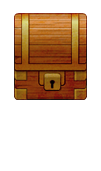
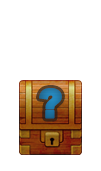
Debut class Bonus

diff --git a/Bomberman 2/src/Bonus.java b/Bomberman 2/src/Bonus.java
@@ -1,0 +1,61 @@
+import java.lang.Math; 
+
+public class Bonus {
+
+	// Nombre entier aleatoire entre 0 et 8 deffinnissant le bonus 
+	int Choix_bonus = (int) (Math.random() * 9 );
+	// Un bonus a une probabilité de 1 chance sur 5 d'apparaitre 
+	int Apparition_bonus = (int) (Math.random() * 6 );
+	
+	//Constructeur
+	public Bonus() {
+
+	}
+
+	//Getter and setters
+	public int getChoix_bonus() {
+		return Choix_bonus;
+	}
+
+
+
+	public void setChoix_bonus(int choix_bonus) {
+		Choix_bonus = choix_bonus;
+	}
+
+
+
+	public int getApparition_bonus() {
+		return Apparition_bonus;
+	}
+
+
+
+	public void setApparition_bonus(int apparition_bonus) {
+		Apparition_bonus = apparition_bonus;
+	}
+
+
+	//Fonction
+	
+	public boolean Bonus_Pop(int Apparition_bonus){
+		
+		if(Apparition_bonus == 1){
+			return true;
+		}
+		
+		else{
+			return false;
+		}
+	}
+	
+	public void Place_bonus(int x,int y, Plateau map){
+		
+		// Si le bonus apparait
+		if(Bonus_Pop(Apparition_bonus) == true){
+			
+			//On change la valeur du plateau
+			map.getMap()[x][y] = 6;
+		}
+	}
+}

diff --git a/Bomberman 2/src/Jeu.java b/Bomberman 2/src/Jeu.java
@@ -24,6 +24,7 @@ public class Jeu {
 		 * - 3 : Bombes posée
 		 * - 4 : Mur Indestructible
 		 * - 5 : Flamme ( temporaire )
+		 * - 6 : Bonus
 		 */
 		
 		int map [][] =
@@ -49,6 +50,12 @@ public class Jeu {
 		
 		Long Heure_debut = System.currentTimeMillis();
 		Long Time_minute = 0l;
+		
+		// --------- INITIALISATION DES POLICES D'ECRITURE ---------
+		
+		Font font = new Font("Arial", Font.BOLD, 30);
+		StdDraw.setFont(font);
+		StdDraw.setPenColor(StdDraw.WHITE);
 
 		// --------- CRÉATION DES OBJETS NÉCESSAIRES --------- 
 		
@@ -148,16 +155,6 @@ public class Jeu {
 			// A faire au propre plus tard //
 			Joueur1.CompteARebourd(Plateau_1, Joueur1, Joueur2); //renommer plus tard //
 			Joueur1.EnleverFlamme(Plateau_1);
-			
-			/*if(Joueur1.getVie() < 0)
-			{
-				StdDraw.picture(625, 345, "Player 2 WIN.png");
-			}
-			if(Joueur2.getVie() < 0)
-			{
-				StdDraw.picture(625, 345, "Player 1 WIN.png");
-			}
-			*/
 			
 			StdDraw.show();
 			StdDraw.pause(50);

diff --git a/Bomberman 2/src/Plateau.java b/Bomberman 2/src/Plateau.java
@@ -1,4 +1,3 @@
-import java.awt.Font;
 import java.awt.event.KeyEvent;
 
 import edu.princeton.cs.introcs.StdDraw;
@@ -24,11 +23,6 @@ public class Plateau {
 	/// Fonctions ///
 	public  void Afficher_map(int map [][],Personnage Joueur1,Personnage Joueur2)
 	{
-		
-		//Paramètres Polices
-		Font font = new Font("Arial", Font.BOLD, 30);
-		StdDraw.setFont(font);
-		StdDraw.setPenColor(StdDraw.WHITE);
 		
 		StdDraw.clear(StdDraw.BLACK);
 		StdDraw.picture(1150,345, "Interface_bomber.png");
